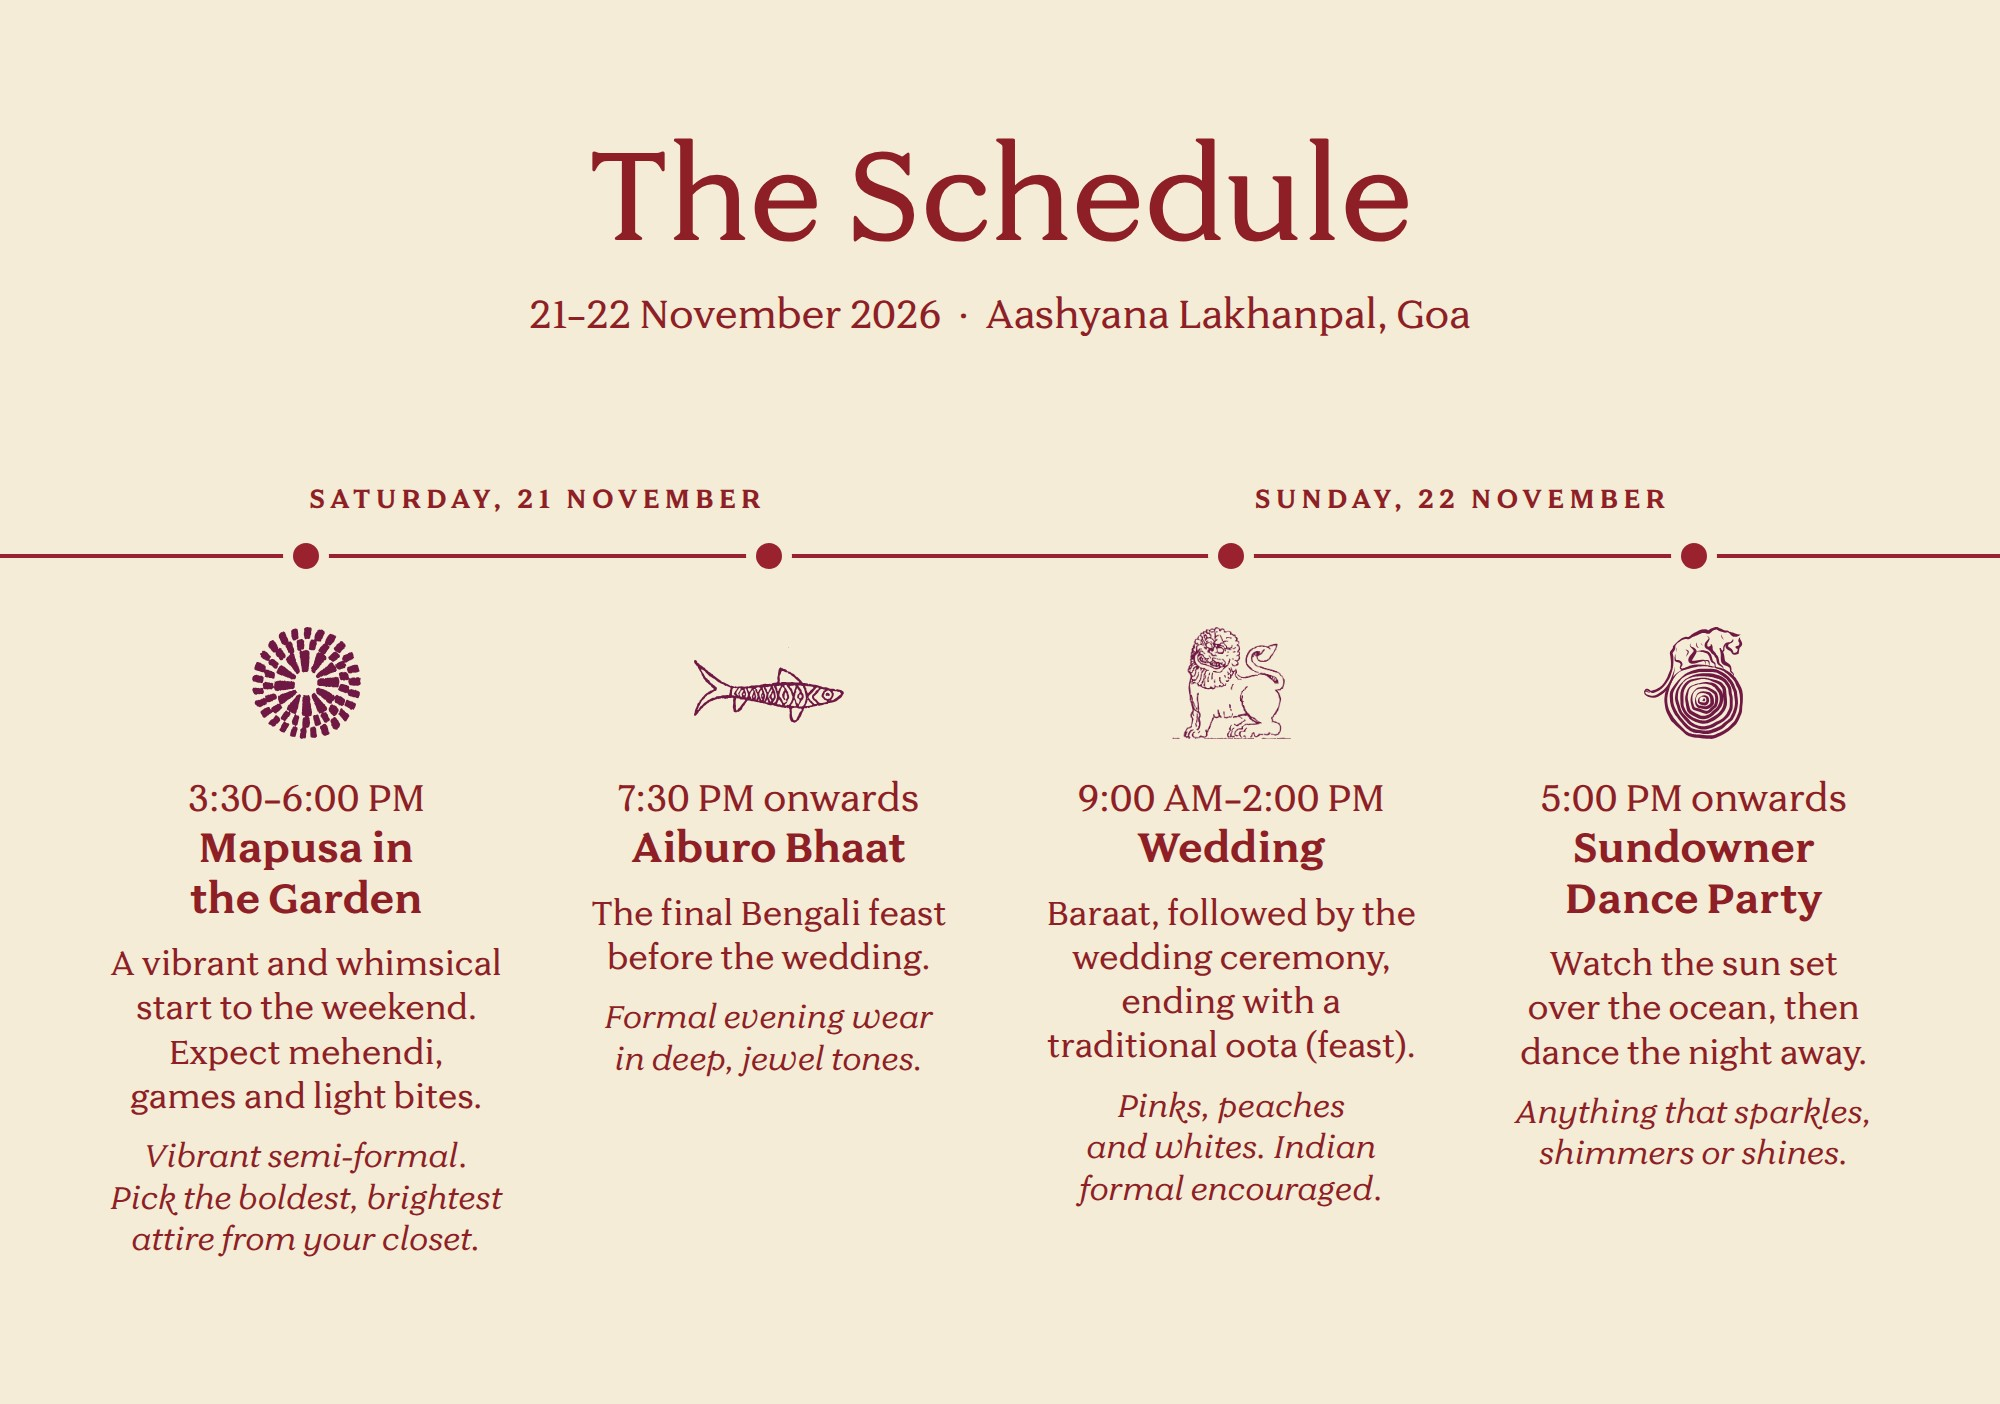
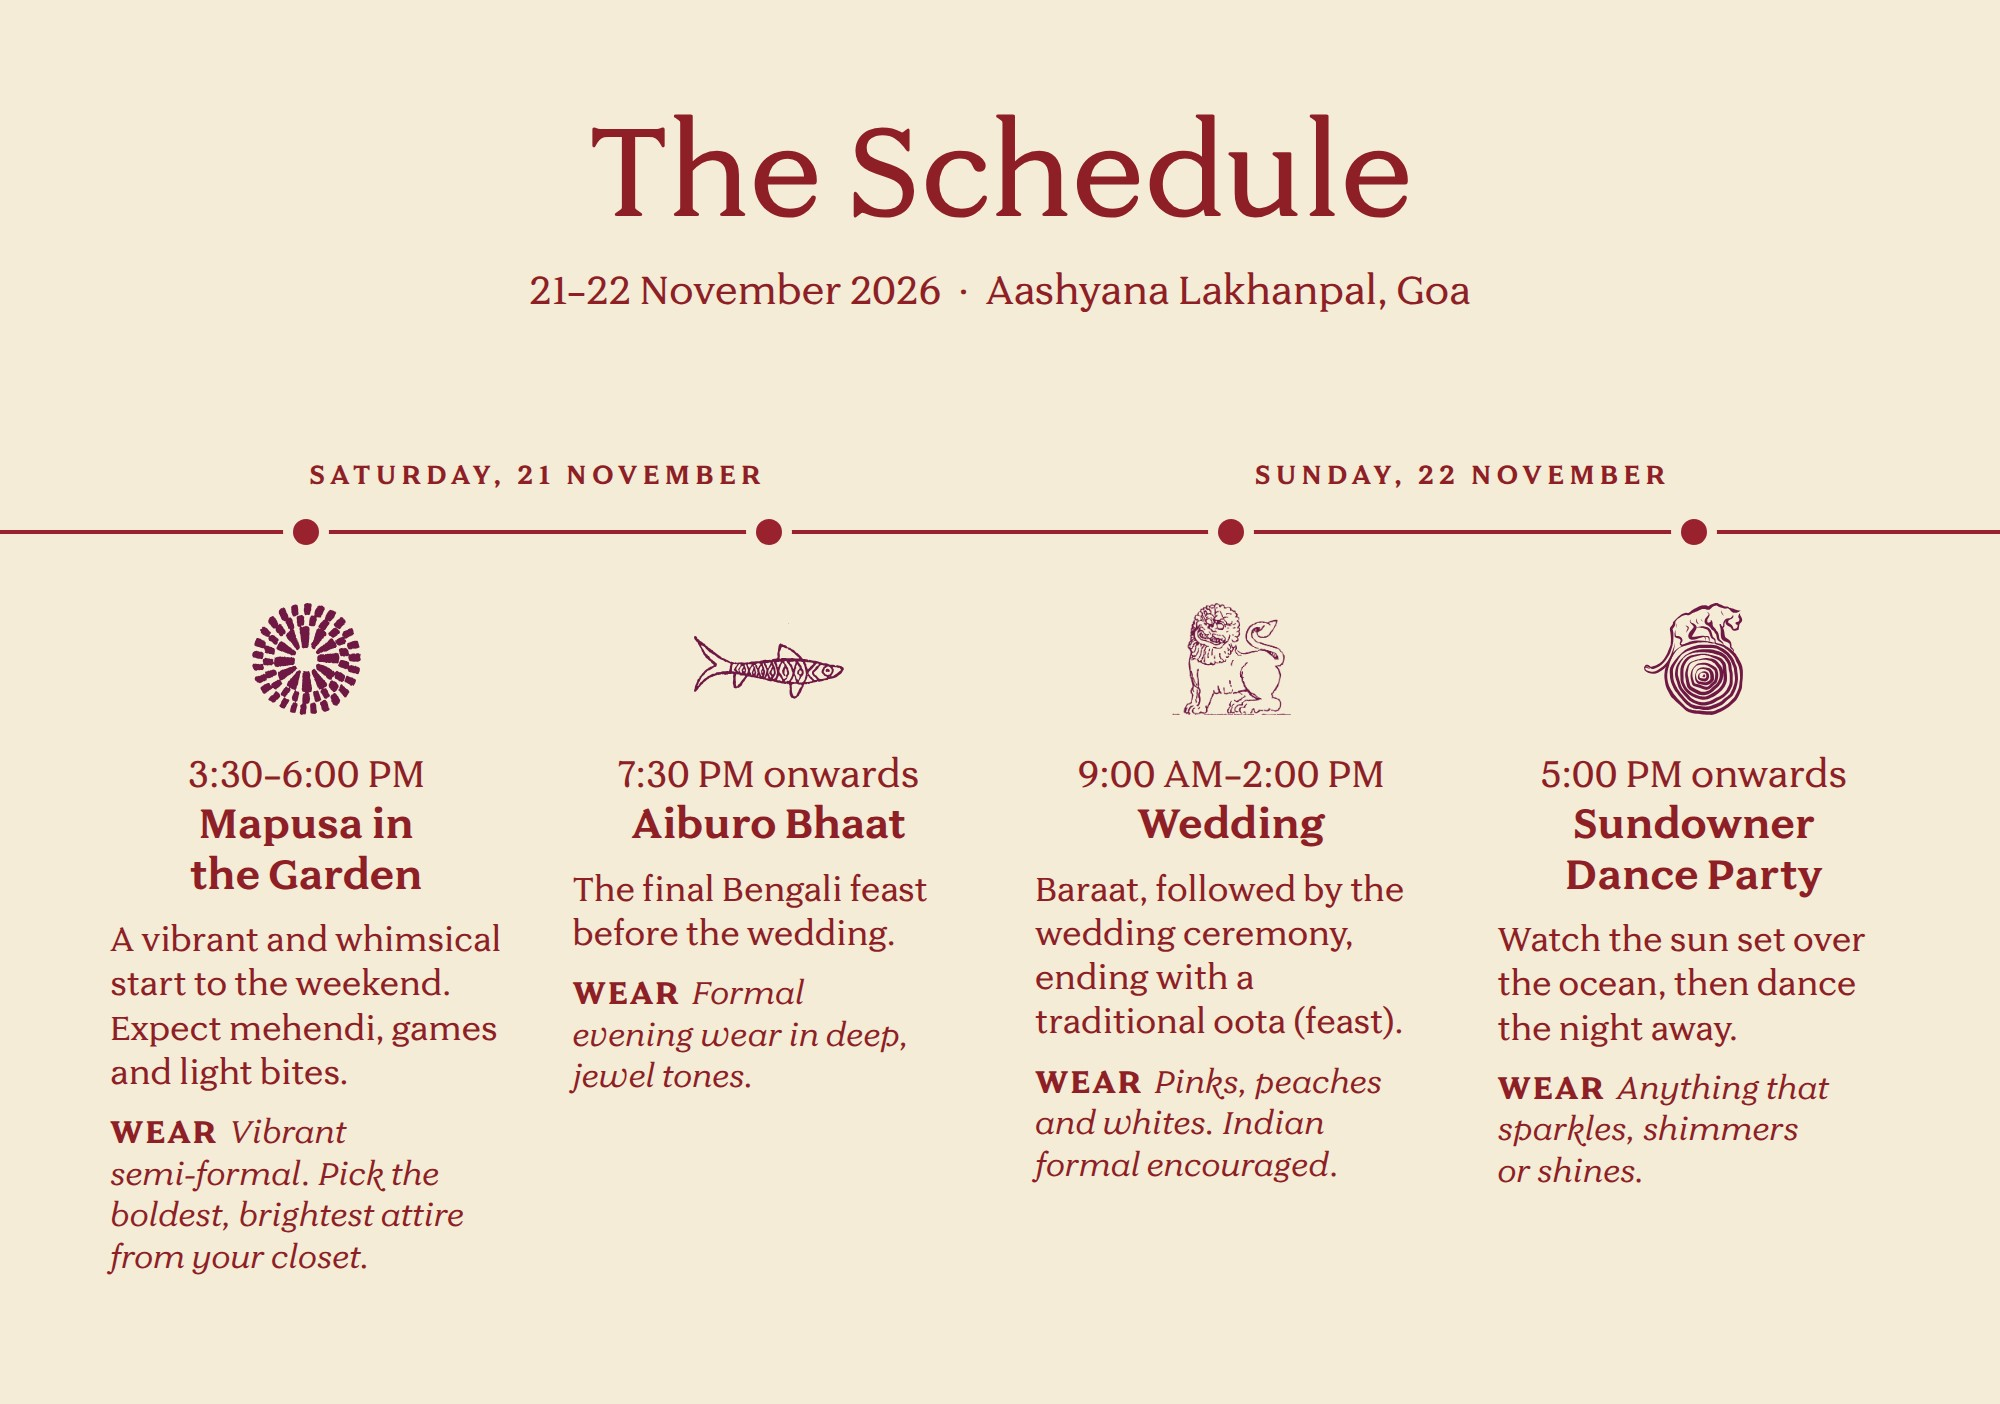
Left-align v3's descriptions and dress codes, label them Wear
The description and dress code now sit flush left under each event's
centred motif, time and name. Each dress code opens with a bold WEAR
label set in Faire-Sprig at the dress code's own size. The layout
moves up slightly so Mapusa's longer dress code clears the bottom edge.

Claude-Session: https://claude.ai/code/session_01M927iqGqXpH2N1bkdGR9p5

diff --git a/design/schedule-card/v3.html b/design/schedule-card/v3.html
@@ -12,7 +12,7 @@
       position: absolute;
       left: 0;
       right: 0;
-      top: 130px;
+      top: 106px;
       text-align: center;
     }
     .top .title { line-height: 1; }
@@ -25,7 +25,7 @@
       position: absolute;
       left: 110px;
       right: 110px;
-      top: 482px;
+      top: 458px;
       display: grid;
       grid-template-columns: 1fr 1fr;
       column-gap: 70px;
@@ -35,7 +35,7 @@
       position: absolute;
       left: 0;
       right: 0;
-      top: 554px;
+      top: 530px;
       height: 4px;
       background: var(--rule);
     }
@@ -43,7 +43,7 @@
       position: absolute;
       left: 110px;
       right: 110px;
-      top: 556px;
+      top: 532px;
       display: grid;
       grid-template-columns: repeat(4, 1fr);
       column-gap: 70px;
@@ -73,11 +73,24 @@
       margin-bottom: 18px;
       text-wrap: balance;
     }
-    .desc { font-size: 34px; text-wrap: balance; }
+    /* the description and dress code read as paragraphs, so they
+       sit flush left under the centred time, name and motif */
+    .desc,
+    .wear {
+      align-self: stretch;
+      text-align: left;
+    }
+    .desc { font-size: 34px; }
     .wear {
       font-size: 32px;
       margin-top: 18px;
-      text-wrap: balance;
+    }
+    .nowrap { white-space: nowrap; }
+    .wear-label {
+      font-size: inherit;
+      font-weight: 700;
+      letter-spacing: 0.06em;
+      margin-right: 0.35em;
     }
   </style>
 </head>
@@ -102,7 +115,7 @@
         <p class="time">3:30&ndash;6:00 PM</p>
         <h2 class="name">Mapusa in the Garden</h2>
         <p class="desc">A vibrant and whimsical start to the weekend. Expect mehendi, games and light bites.</p>
-        <p class="wear">Vibrant semi-formal. Pick the boldest, brightest attire from your closet.</p>
+        <p class="wear"><span class="wear-label">Wear</span>Vibrant <span class="nowrap">semi-formal</span>. Pick the boldest, brightest attire from your closet.</p>
       </div>
       <div class="event">
         <span class="dot"></span>
@@ -110,7 +123,7 @@
         <p class="time">7:30 PM onwards</p>
         <h2 class="name">Aiburo Bhaat</h2>
         <p class="desc">The final Bengali feast before the wedding.</p>
-        <p class="wear">Formal evening wear in deep, jewel tones.</p>
+        <p class="wear"><span class="wear-label">Wear</span>Formal evening wear in deep, jewel tones.</p>
       </div>
       <div class="event">
         <span class="dot"></span>
@@ -118,7 +131,7 @@
         <p class="time">9:00 AM&ndash;2:00 PM</p>
         <h2 class="name">Wedding</h2>
         <p class="desc">Baraat, followed by the wedding ceremony, ending with a traditional oota (feast).</p>
-        <p class="wear">Pinks, peaches and whites. Indian formal encouraged.</p>
+        <p class="wear"><span class="wear-label">Wear</span>Pinks, peaches and whites. Indian formal encouraged.</p>
       </div>
       <div class="event">
         <span class="dot"></span>
@@ -126,7 +139,7 @@
         <p class="time">5:00 PM onwards</p>
         <h2 class="name">Sundowner Dance Party</h2>
         <p class="desc">Watch the sun set over the ocean, then dance the night away.</p>
-        <p class="wear">Anything that sparkles, shimmers or shines.</p>
+        <p class="wear"><span class="wear-label">Wear</span>Anything that sparkles, shimmers or shines.</p>
       </div>
     </div>
   </div>
